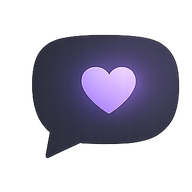
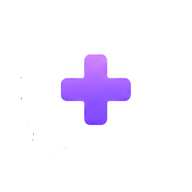
Update SafeChat branding and legal notices

diff --git a/app/index.html b/app/index.html
@@ -3,11 +3,13 @@
 <head>
 <meta charset="UTF-8">
 <meta name="viewport" content="width=device-width, initial-scale=1.0">
-<title>SafeChat — International Chat Safety Protocol</title>
+<title>SafeChat</title>
 <meta name="description" content="Free, open-source crisis safety infrastructure for AI apps. Detects distress, finds local help. 34 countries, 100+ verified helplines, zero tracking.">
 <meta name="theme-color" content="#0a0b10">
 <meta http-equiv="Content-Security-Policy" content="default-src 'self'; script-src 'self' 'unsafe-inline' cdn.jsdelivr.net; style-src 'self' 'unsafe-inline'; img-src 'self' data: cdn.jsdelivr.net; connect-src 'self' cdn.jsdelivr.net raw.githubusercontent.com; font-src 'self';">
 <meta name="referrer" content="no-referrer">
+<link rel="icon" href="./favicon.ico" sizes="any">
+<link rel="shortcut icon" href="./favicon.ico">
 <link rel="icon" type="image/png" sizes="32x32" href="./images/icon-32.png">
 <link rel="icon" type="image/png" sizes="192x192" href="./images/icon-192.png">
 <link rel="apple-touch-icon" sizes="180x180" href="./images/icon-180.png">
@@ -145,6 +147,21 @@
   .btn-donate:hover { background: rgba(100,180,140,0.25); text-decoration: none; }
   .btn-paypal { background: rgba(0,112,186,0.15); color: #5ba8d4; border: 1px solid rgba(0,112,186,0.2); }
   .btn-paypal:hover { background: rgba(0,112,186,0.25); text-decoration: none; }
+  .support-note,
+  .legal-disclaimer {
+    font-size: 12px;
+    color: rgba(255,255,255,0.42);
+    line-height: 1.6;
+  }
+  .support-note { margin-top: 12px; }
+  .legal-disclaimer {
+    margin-top: 14px;
+    padding: 14px;
+    background: rgba(255,255,255,0.04);
+    border: 1px solid rgba(255,255,255,0.08);
+    border-radius: 12px;
+  }
+  .legal-disclaimer strong { color: rgba(255,255,255,0.72); }
 
   /* Sections */
   .section {
@@ -363,9 +380,10 @@
   <div class="actions">
     <a href="./popup.html" class="btn btn-primary">Get Help Now</a>
     <a href="https://github.com/rob-e-graham/safechat" class="btn btn-secondary" target="_blank" rel="noopener">View on GitHub</a>
-    <a href="https://paypal.me/specialrequest" class="btn btn-paypal" target="_blank" rel="noopener">Support via PayPal</a>
-    <a href="https://buymeacoffee.com/famtec" class="btn btn-donate" target="_blank" rel="noopener">Buy Me a Coffee</a>
+    <a href="https://www.paypal.com/paypalme/specialrequest" class="btn btn-paypal" target="_blank" rel="noopener">Support via PayPal</a>
+    <a href="mailto:rob@fineartmedia.tech?subject=SafeChat%20support" class="btn btn-donate">Donation Options</a>
   </div>
+  <p class="support-note">Buy Me a Coffee is currently unavailable. Use PayPal or email for donation options.</p>
 </div>
 
 <hr class="divider">
@@ -542,6 +560,10 @@
       <a href="https://cdn.jsdelivr.net/gh/rob-e-graham/safechat@main/data/crisis-resources.json" class="btn btn-secondary" download>Download JSON</a>
     </div>
   </div>
+
+  <div class="legal-disclaimer">
+    <strong>Legal disclaimer:</strong> SafeChat is provided as is and is not emergency medical care, legal advice, professional mental health treatment, or a substitute for emergency services. By downloading, installing, deploying, integrating, or using SafeChat, you accept responsibility for your own installation, configuration, compliance, testing, supervision, and use. To the maximum extent permitted by law, Rob Graham, FAMTEC, contributors, maintainers, copyright holders, and licensors are not liable for damages, losses, legal claims, regulatory penalties, system damage, data loss, personal injury, death, unlawful use, failure to obtain help, failure to detect crisis content, or other harm arising from installation or use. If you do not accept these terms, do not download, install, deploy, integrate, or use SafeChat.
+  </div>
 </div>
 
 <hr class="divider">
@@ -609,7 +631,7 @@
     <a href="https://github.com/rob-e-graham/safechat" target="_blank">GitHub</a> &middot;
     <a href="https://github.com/rob-e-graham/safechat/discussions" target="_blank">Discussions</a> &middot;
     <a href="./popup.html">Get Help</a> &middot;
-    <a href="https://paypal.me/specialrequest" target="_blank" rel="noopener">Donate</a> &middot;
+    <a href="https://www.paypal.com/paypalme/specialrequest" target="_blank" rel="noopener">Donate</a> &middot;
     <a href="https://fineartmedia.tech" target="_blank">fineartmedia.tech</a>
   </p>
   <p style="margin-top:16px; font-size:12px;">

diff --git a/app/popup.html b/app/popup.html
@@ -3,12 +3,15 @@
 <head>
 <meta charset="UTF-8">
 <meta name="viewport" content="width=device-width, initial-scale=1.0, maximum-scale=1.0, user-scalable=no">
-<title>Safechat — Get Help Now</title>
+<title>SafeChat</title>
 <meta name="description" content="Find crisis support near you. Free, confidential helplines available 24/7.">
 <meta name="theme-color" content="#0a0b10">
 <meta http-equiv="Content-Security-Policy" content="default-src 'self'; script-src 'self' 'unsafe-inline'; style-src 'self' 'unsafe-inline'; img-src 'self' data:; connect-src 'self' cdn.jsdelivr.net raw.githubusercontent.com; font-src 'self';">
 <meta name="referrer" content="no-referrer">
+<link rel="icon" href="./favicon.ico" sizes="any">
+<link rel="shortcut icon" href="./favicon.ico">
 <link rel="icon" type="image/png" sizes="32x32" href="./images/icon-32.png">
+<link rel="icon" type="image/png" sizes="192x192" href="./images/icon-192.png">
 <link rel="apple-touch-icon" sizes="180x180" href="./images/icon-180.png">
 <link rel="manifest" href="manifest.json">
 <style>

diff --git a/app/sw.js b/app/sw.js
@@ -5,6 +5,7 @@ const CACHE_URLS = [
   './popup.html',
   './images/icon-192.png',
   './images/icon-512.png',
+  './favicon.ico',
   './images/logo-nav.png',
   '../src/browser.js',
 ];

diff --git a/docs/legal-disclaimer.md b/docs/legal-disclaimer.md
@@ -1,0 +1,22 @@
+# SafeChat Legal Disclaimer
+
+Date: 2026-05-22
+
+SafeChat is provided as is. It is not emergency medical care, legal advice, professional mental health treatment, or a substitute for emergency services, clinicians, safeguarding teams, legal counsel, or local crisis response procedures.
+
+By downloading, installing, copying, modifying, deploying, integrating, operating, or otherwise using SafeChat, you accept all responsibility for your own installation, configuration, compliance, testing, supervision, moderation, user communications, and use of the software.
+
+You are solely responsible for determining whether your use of SafeChat is lawful, safe, suitable, and compliant with all applicable laws, regulations, platform rules, clinical obligations, safeguarding duties, privacy requirements, consumer protection duties, and professional standards in your jurisdiction.
+
+To the maximum extent permitted by law, Rob Graham, FAMTEC, contributors, maintainers, copyright holders, and licensors are not liable for any direct, indirect, incidental, special, consequential, exemplary, punitive, or other damages, losses, costs, charges, claims, penalties, fines, legal fees, regulatory actions, business interruption, data loss, device or system damage, personal injury, death, emotional distress, failure to obtain help, failure to detect or respond to crisis content, unlawful use, or other harm arising from or related to the installation, configuration, deployment, integration, operation, reliance on, inability to use, or use of SafeChat.
+
+You may not seek to charge, recover, claim, or transfer any damages, losses, costs, penalties, fines, legal fees, regulatory exposure, or other liability against Rob Graham, FAMTEC, contributors, maintainers, copyright holders, or licensors arising from your installation, configuration, deployment, integration, operation, reliance on, inability to use, or use of SafeChat, except where such limitation is prohibited by applicable law.
+
+If you do not accept these terms, do not download, install, deploy, integrate, operate, or use SafeChat.
+
+## 2026-05-22 Update Log
+
+- Replaced broken Buy Me a Coffee link with an email fallback because `https://buymeacoffee.com/famtec` currently returns 404.
+- Changed PayPal links to the canonical `https://www.paypal.com/paypalme/specialrequest` URL.
+- Added the disclaimer to `LICENSE`, `README.md`, and the app download section.
+- Corrected `package.json` license metadata from `MIT` to `SEE LICENSE IN LICENSE` to match the BSL license file.

diff --git a/docs/logo-update.md b/docs/logo-update.md
@@ -1,0 +1,43 @@
+# SafeChat Logo Asset Update
+
+Date: 2026-05-22
+
+## Source
+
+- Source file: `/Users/robgraham/Desktop/safe chat logos.png`
+- Brand direction: plus-cross chat bubble identity, replacing the previous heart mark.
+
+## Updated Assets
+
+The app image assets now use the plus-cross identity:
+
+- `app/images/logo-nav.png`
+- `app/images/logo-nav-light.png`
+- `app/images/icon-bubble.png`
+- `app/images/icon-32.png`
+- `app/images/icon-64.png`
+- `app/images/icon-128.png`
+- `app/images/icon-180.png`
+- `app/images/icon-192.png`
+- `app/images/icon-512.png`
+- `app/images/logo-dark.png`
+- `app/images/logo-light.png`
+
+## Notes
+
+- The previous dark heart/text logo was replaced because it did not read on the dark app background.
+- Logo assets have transparent backgrounds.
+- The current nav asset preserves the full horizontal plus-cross SafeChat mark and is sized to the existing `215x56` file contract used by `app/index.html`.
+- PWA and favicon assets use the chat bubble with plus-cross only, not the rounded-square tile.
+- The app icon sizes preserve the existing manifest and favicon filenames, so no HTML or manifest references were changed.
+
+## Verification
+
+- `npm test` passed: 218 passed, 0 failed.
+
+## Separate Review Items
+
+The verifier findings are still separate from this logo update:
+
+- `.github/scripts/verify-resources.js` should handle array phone numbers.
+- `.github/workflows/verify-resources.yml` should allow issue creation after verifier failures.

diff --git a/README.md b/README.md
@@ -225,10 +225,20 @@ Changes to MPL 2.0 on 2029-01-01.
 
 ---
 
+## Legal Disclaimer
+
+SafeChat is provided **as is**. It is not emergency medical care, legal advice, professional mental health treatment, or a substitute for emergency services, clinicians, safeguarding teams, or local crisis procedures.
+
+By downloading, installing, deploying, integrating, or using SafeChat, you accept responsibility for your own installation, configuration, compliance, testing, supervision, and use. To the maximum extent permitted by law, Rob Graham, FAMTEC, contributors, maintainers, copyright holders, and licensors are not liable for damages, losses, legal claims, regulatory penalties, system damage, data loss, personal injury, death, failure to obtain help, failure to detect crisis content, unlawful use, or other harm arising from installation or use.
+
+If you do not accept these terms, do not download, install, deploy, integrate, or use SafeChat. See [LICENSE](LICENSE) for the full disclaimer and limitation of liability.
+
+---
+
 ## Support the Project
 
-- [PayPal](https://paypal.me/specialrequest)
-- [Buy Me a Coffee](https://buymeacoffee.com/famtec)
+- [PayPal](https://www.paypal.com/paypalme/specialrequest)
+- Buy Me a Coffee is currently unavailable. For support or donation options, contact [rob@fineartmedia.tech](mailto:rob@fineartmedia.tech).
 
 ---
 
